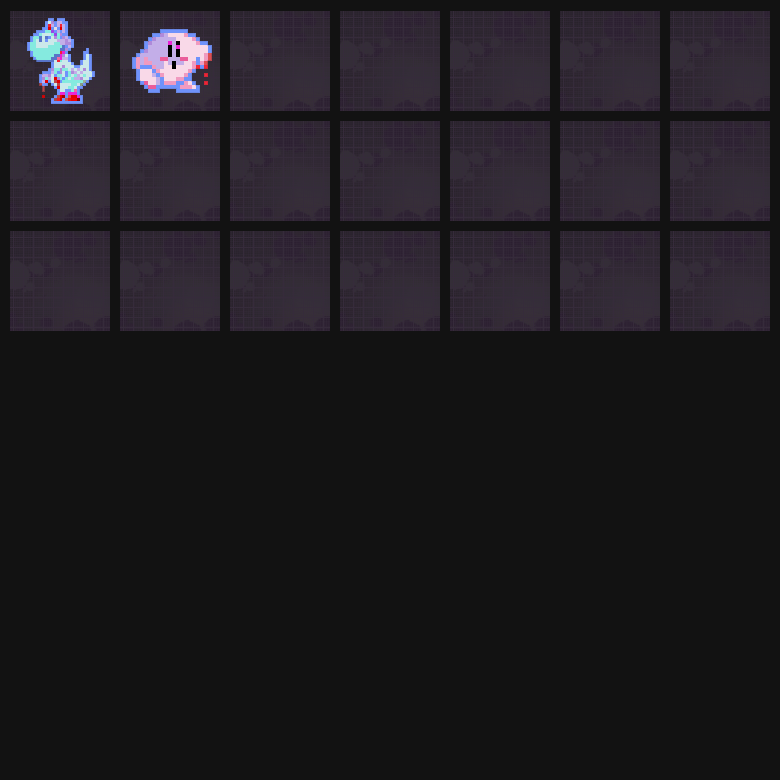
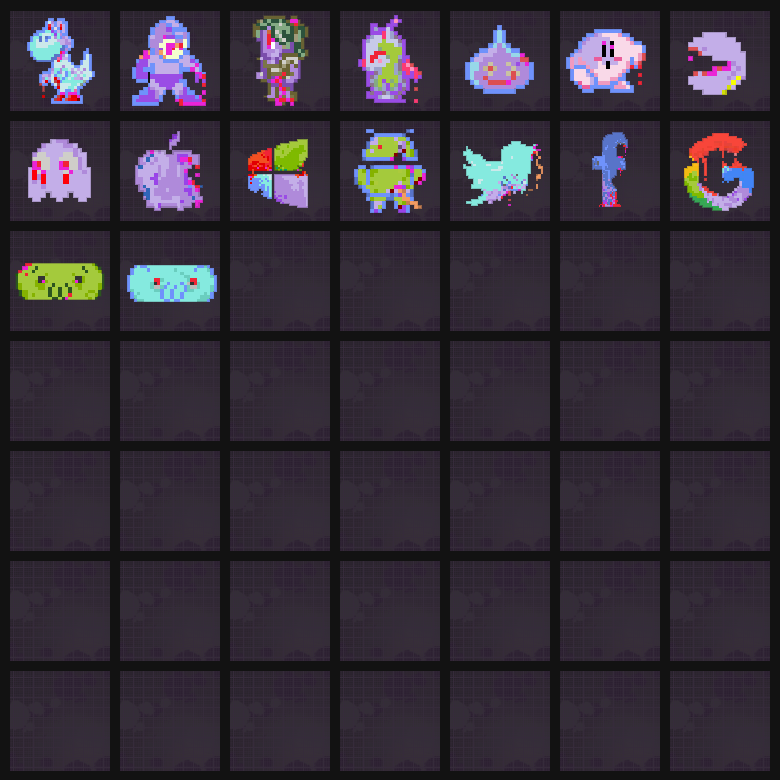
modified previews

diff --git a/README.md b/README.md
@@ -3,3 +3,5 @@ Dot_zombie
 
 ## Overview
 Dots obscure everything. Sometimes it creates cuteness.
+
+![dot zombie preview](https://github.com/sumi37/dot_zombie/blob/master/sample/preview.png "preview")
